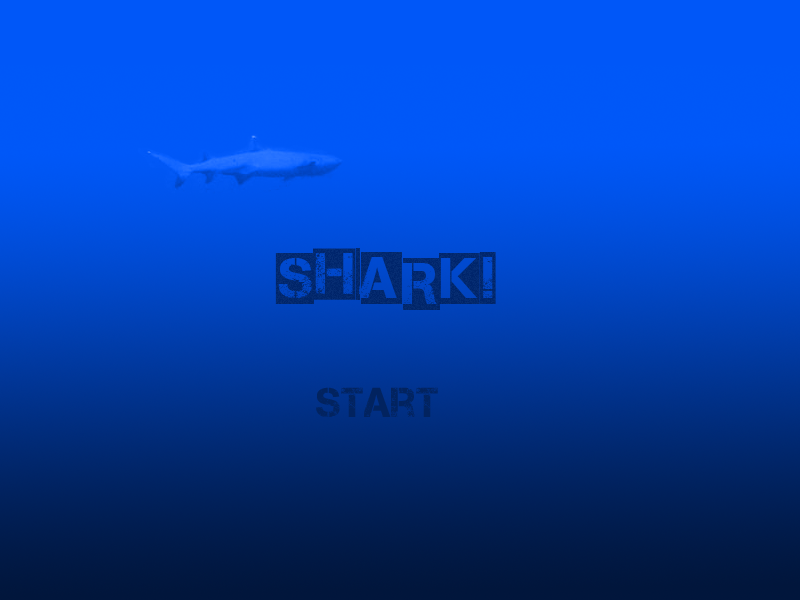
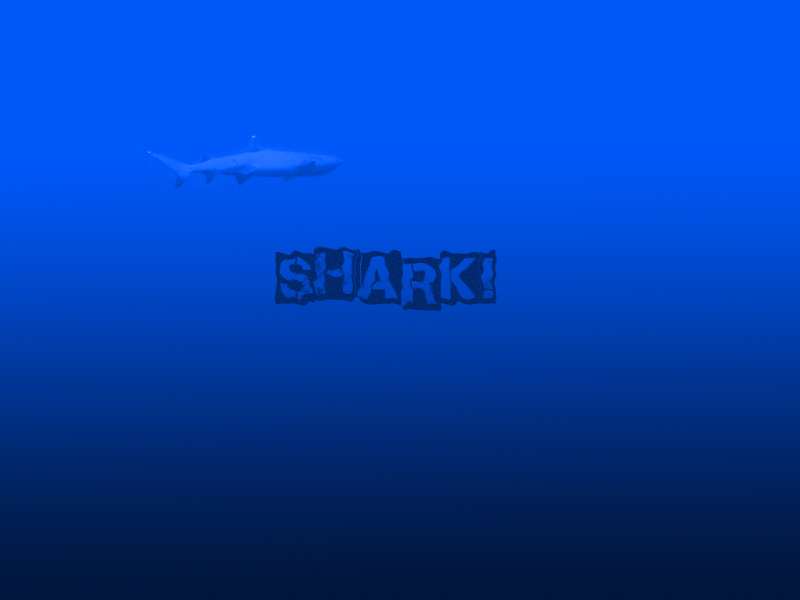
Trying to add win/lose screen; Updated gfx on screens

Changed region(s): [[0.375, 0.63, 0.5625, 0.69], [0.3438, 0.42, 0.4688, 0.51], [0.5, 0.42, 0.625, 0.51]]

diff --git a/js/crew.js b/js/crew.js
@@ -1,0 +1,92 @@
+var maxVelocity = 50;
+var personSpeed = 3;
+var boatSinkLevel = 20;
+function crewAI(crewMember) {
+    if (crewMember.name == "bomb") {
+        if (crewMember.body.velocity.y < 5) crewMember.body.velocity.y = 0;
+        else crewMember.body.velocity.y *= .99;
+    }
+    else {
+        //flee down
+        if (shark.y < crewMember.y) {
+            crewMember.body.velocity.y += personSpeed;
+            crewMember.angle = 180;
+        }
+
+        //left
+        else if (shark.x > crewMember.x) {
+            crewMember.body.velocity.x -= personSpeed;
+            crewMember.angle = 270;
+        }
+        //right
+        else if (shark.x < crewMember.x) {
+            crewMember.body.velocity.x += personSpeed;
+            crewMember.angle = 90;
+        }
+
+        // up
+        else if (shark.y > crewMember.y) {
+            crewMember.body.velocity.y -= personSpeed;
+            crewMember.angle = 0;
+        }
+    }
+}
+function crewPhysics(crewMember) {
+    if (crewMember.name != "bomb") {
+        if (Math.abs(crewMember.body.velocity.x) > maxVelocity) {
+            if (crewMember.body.velocity.x > maxVelocity) crewMember.body.velocity.x = maxVelocity;
+            else if (crewMember.body.velocity.x * -1 > maxVelocity) crewMember.body.velocity.x = maxVelocity * -1;
+        }
+        if (Math.abs(crewMember.body.velocity.y) > maxVelocity) {
+            if (crewMember.body.velocity.y > maxVelocity) crewMember.body.velocity.y = maxVelocity;
+            else if (crewMember.body.velocity.y * -1 > maxVelocity) crewMember.body.velocity.y = maxVelocity * -1;
+        }
+        if (crewMember.y < waterLine) crewMember.body.velocity.y += 100;
+    }
+
+    if (crewMember.x < 0 || crewMember.x > 800 || crewMember.y > 600) crewMember.kill();
+}
+function boatSpawn(amount) {
+    for (var i = 0; i < amount; i++) {
+        if (randomNum(1, 3) == 2) {
+            var bomb;
+
+            bomb = crewGroup.create(boat.x, boat.y, "bomb");
+            bomb.name = "bomb";
+            bomb.anchor.setTo(.5, .5); //center flip area
+            bomb.body.velocity.y = randomNum(100,450);
+            bomb.x += randomNum(-15, 15);
+            bomb.body.collideWorldBounds = false;
+        }
+        else {
+                var person;
+
+                if (randomNum(1, 2) == 1) person = crewGroup.create(boat.x, boat.y, "person01");
+                else person = crewGroup.create(boat.x, boat.y, "person02");
+                person.anchor.setTo(.5, .5); //center flip area
+
+                person.body.velocity.x = randomNum(-50, 50);
+                person.body.velocity.y = randomNum(-50, 50);
+                person.x += randomNum(-15, 15);
+                person.body.collideWorldBounds = false;
+            }
+    }
+}
+function handleBoat() {
+    if (boat.x <= 36) {
+        boat.scale.x = -1;
+    }
+    if (boat.scale.x == -1) {
+        boat.body.velocity.x = 40;
+    }
+    if (boat.x >= 764) {
+        boat.scale.x = 1;
+    }
+    if (boat.scale.x == 1) {
+        boat.body.velocity.x = -40;
+    }
+    boat.body.velocity.y = 0;
+    boat.y = boatSinkLevel;
+    boatSinkLevel += .004;
+
+}

diff --git a/js/game.js b/js/game.js
@@ -19,6 +19,7 @@ var boat;
 var waterLine = 65;
 var explosions;
 var gameIsStarted = false;
+var winPoints = 5;
 
 //load in game assets
 function preload() {
@@ -27,8 +28,8 @@ function preload() {
     game.load.spritesheet('boat', 'assets/animations/boat_75x40.png', 75, 50);
     game.load.spritesheet("kaboom", "assets/animations/kaboom_60x60.png", 60, 60);
     //titlescreen
-    game.load.image("titleScreen", "assets/images/titleScreen.png")
-    game.load.image("startButton", "assets/images/startButton.png")
+    game.load.image("titleScreen", "assets/images/titleScreen.png");
+    game.load.image("startButton", "assets/images/startButton.png");
     //in-game
     game.load.image("water", "assets/images/water.png");
     game.load.image("waterGradient", "assets/images/waterGradient.png");
@@ -37,6 +38,11 @@ function preload() {
     game.load.image("person02", "assets/images/person02.png");
     game.load.image("bomb", "assets/images/bomb.png");
     game.load.image("kaboom", "assets/images/kaboom.png");
+    //win/lose screen
+    game.load.image("winScreen", "assets/images/winScreen.png");
+    game.load.image("loseScreen", "assets/images/loseScreen.png");
+    game.load.image("retryButton", "assets/images/retryButton.png");
+
 }
 
 //setup game entities
@@ -47,6 +53,15 @@ function create() {
     //creates titlescreen and start button
     titleScreen = game.add.tileSprite(0, 0, 800, 600, 'titleScreen');
     startButton = game.add.button(316, 387, 'startButton', startButtonClicked, this, 2, 1, 0);
+    //creates win/lose screen and retry button
+    winScreen = game.add.tileSprite(0, 0, 800, 600, 'winScreen');
+    loseScreen = game.add.tileSprite(0, 0, 800, 600, 'loseScreen');
+    retryButton = game.add.button(316, 387, 'retryButton', retryButtonClicked, this, 2, 1, 0);
+
+    //hides win/lose screen and retry button at start up
+    winScreen.visible = false;
+    loseScreen.visible = false;
+    retryButton.visible = false;
 
 }
 //game logic (updates every frame)
@@ -62,6 +77,12 @@ function update() {
         //draw health bar
         graphics.lineStyle(2, 0xFF3300, 1);
         graphics.drawRect(5, 10, 100, 2);
+
+        //determines win
+        if(txtScore >= winPoints){
+            winScreen.visible = true;
+            retryButton.visible = true;
+        }
     }
 }
 
@@ -106,11 +127,26 @@ function startButtonClicked() {
     startGame();
 }
 
+//hides win/lose screen once retry button is clicked
+function retryButtonClicked(){
+    winScreen.visible = false;
+    loseScreen.visible = false;
+    retryButton.visible = false;
+    startGame();
+}
+
 //add "x" amount to score
 function changeScore(changeAmount) {
     var score = parseInt(txtScore.text);
     score += changeAmount;
     txtScore.setText(score.toString());
 }
+
+//controls how player can win/lose game
+function gameOver(){
+        winScreen.visible = true;
+        retryButton.visible = true;
+}
+
 function render() {
 }

diff --git a/js/victim.js b/js/victim.js
@@ -9,7 +9,7 @@ Victim = function (game, x, y) {
     this.body.velocity.x = randomNum(-50, 50);
     this.body.velocity.y = randomNum(-50, 50);
     this.x += randomNum(-15, 15);
-    this.body.collideWorldBounds = false;
+    this.body.collideWorldBounds = true;
     game.add.existing(this);
     victims.add(this);
 }

diff --git a/js/collision.js b/js/collision.js
@@ -36,6 +36,6 @@ function sharkHitsBoat(shark, boat) {
         shark.body.velocity.x *= -.4;
         shark.body.velocity.y *= -.4;
         boat.spawnVictim(randomNum(1, 4));
-        shark.stun();
+        //shark.stun();
     }
 }
